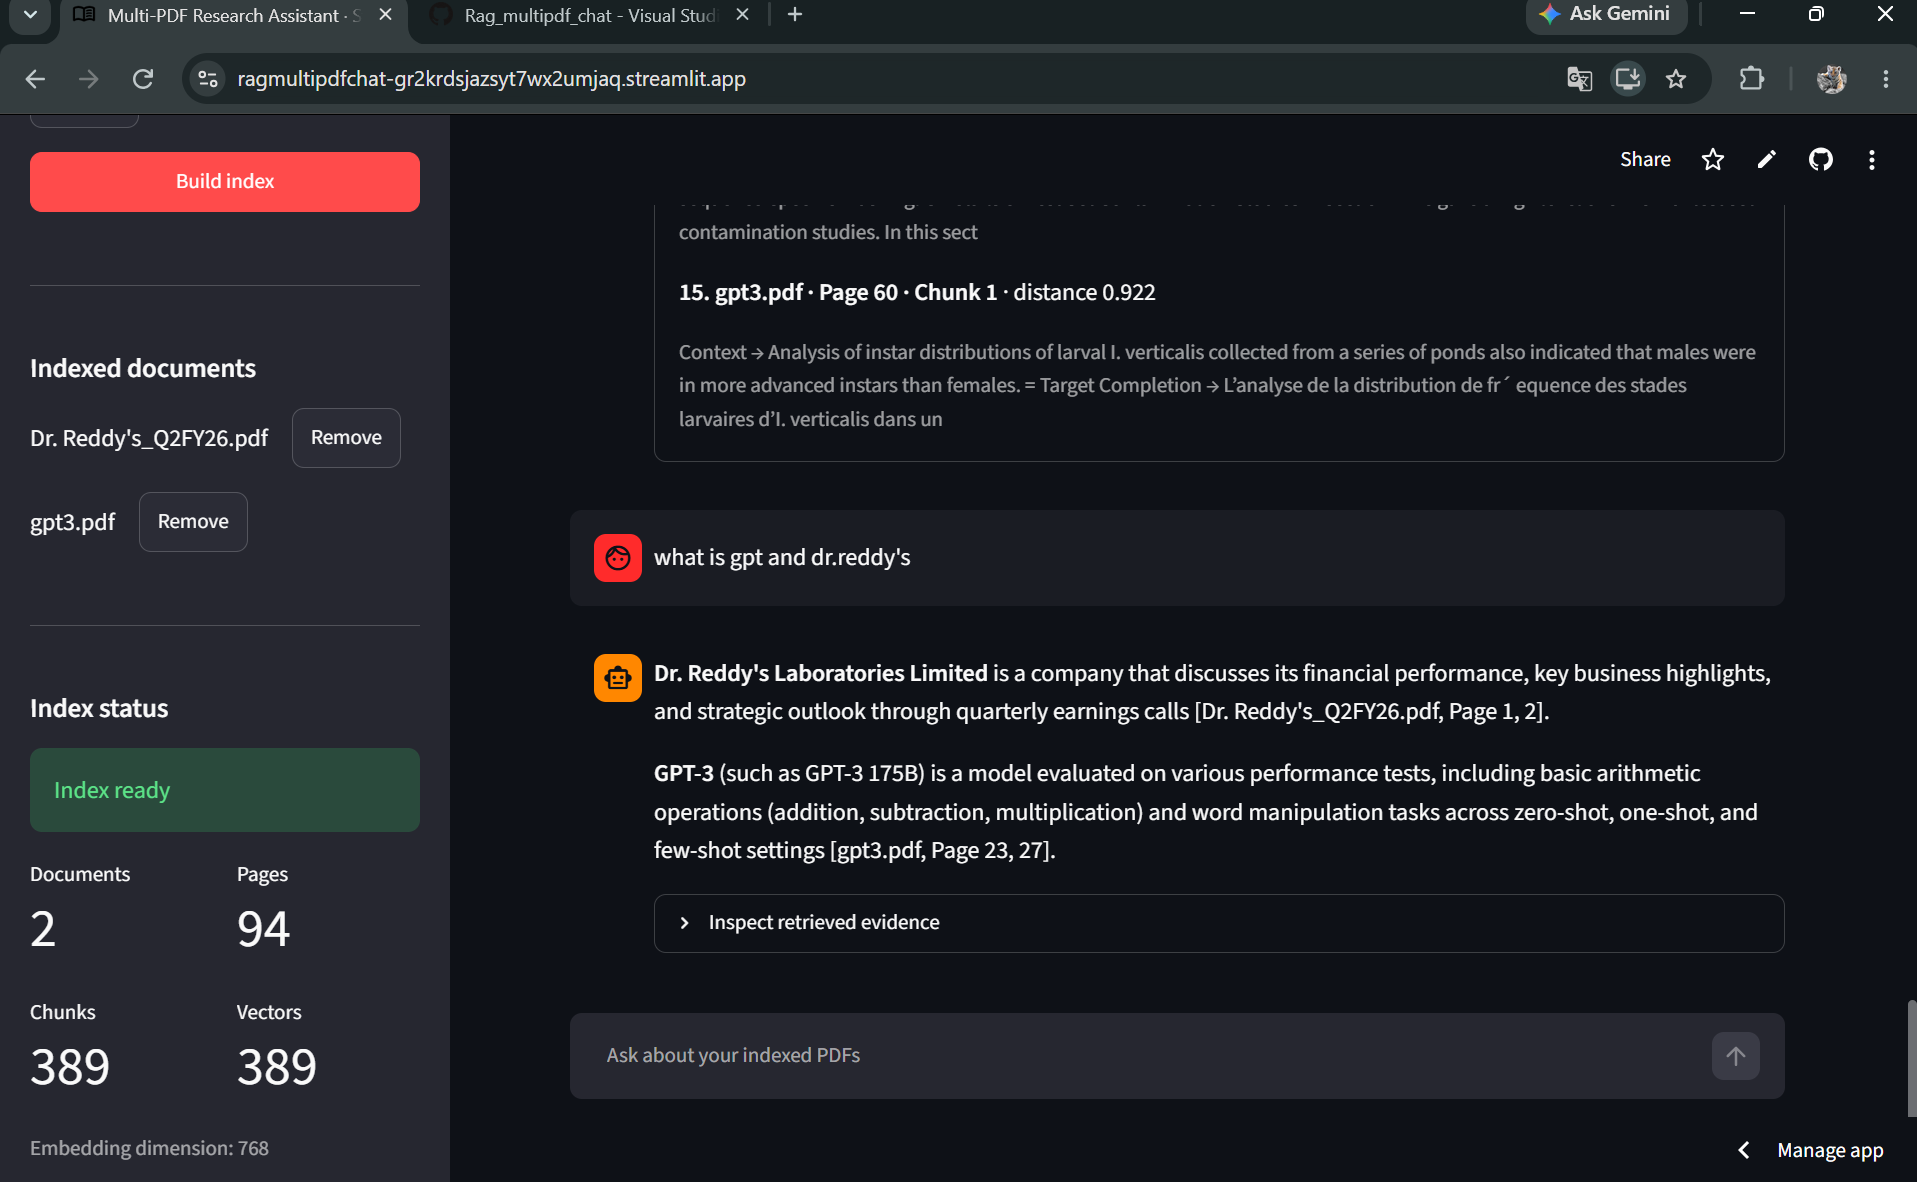
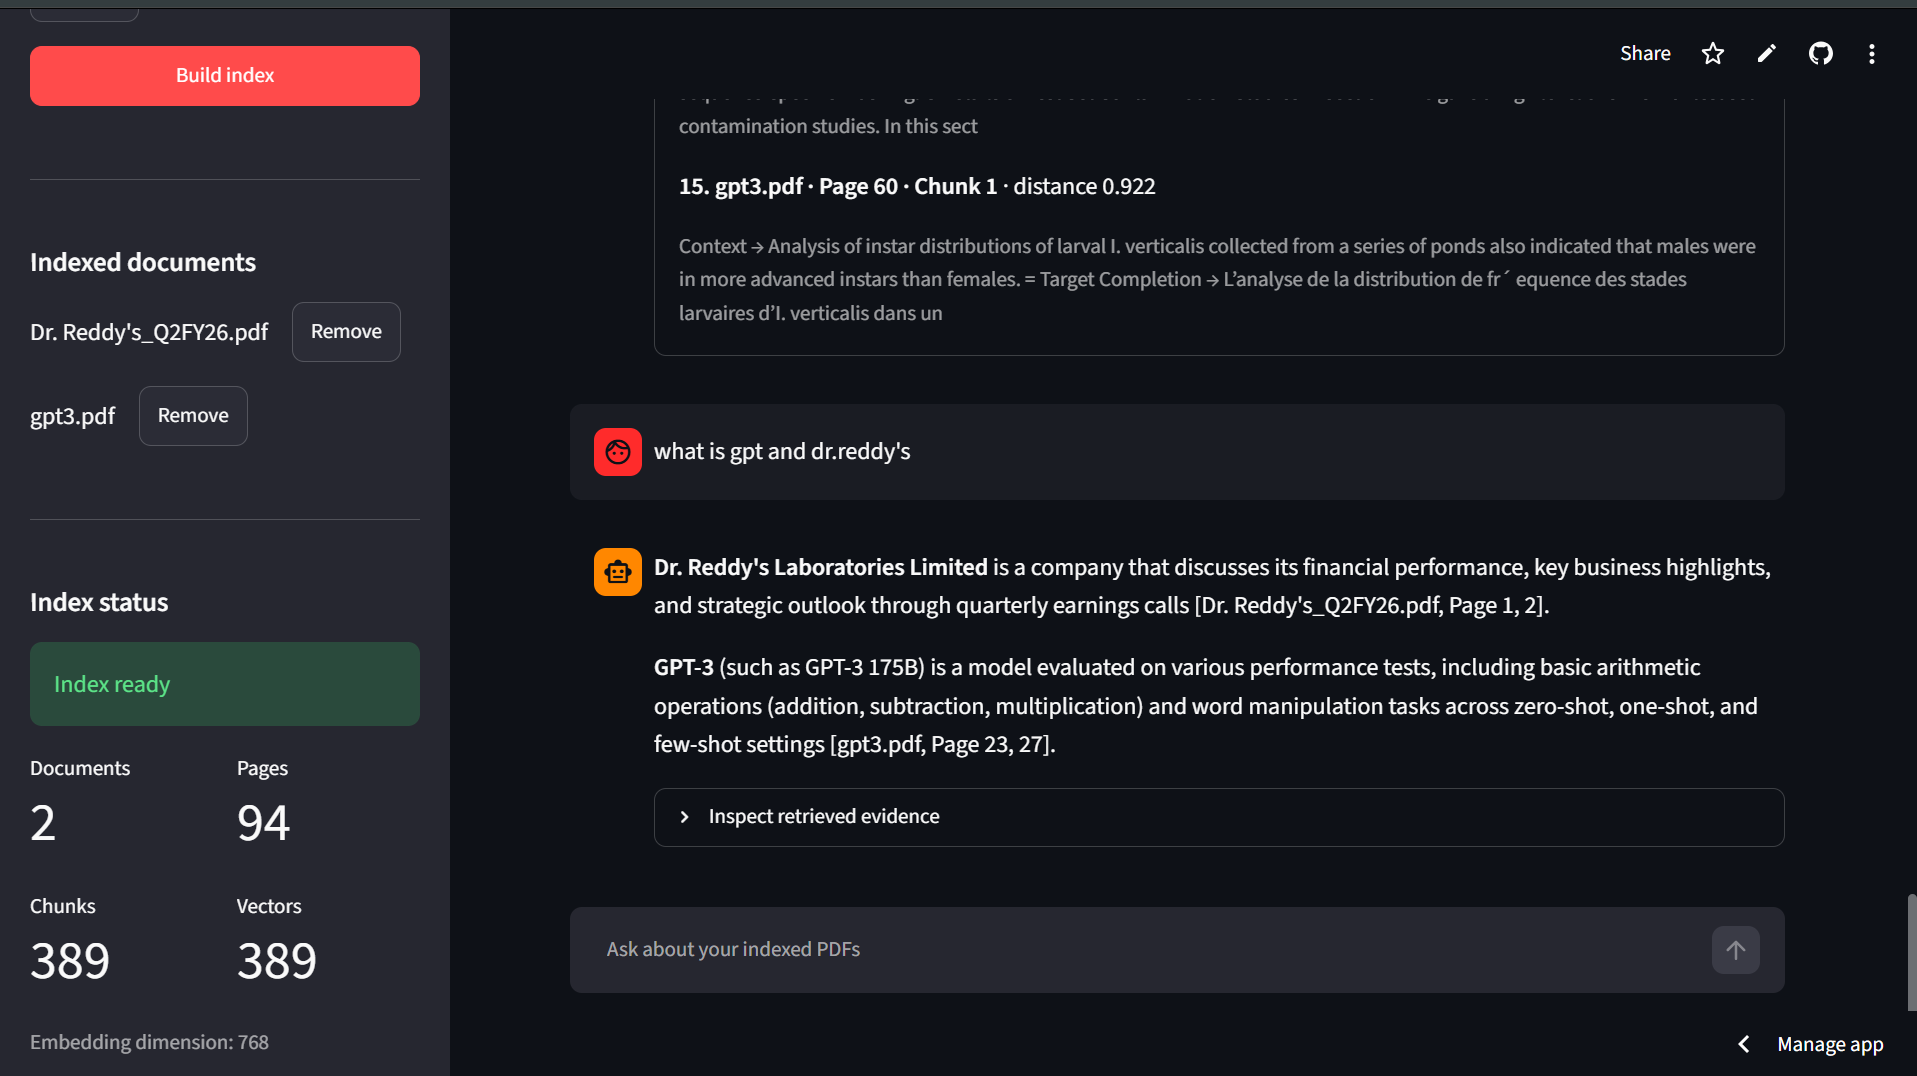
Add live demo and application preview

diff --git a/README.md b/README.md
@@ -8,7 +8,7 @@ A Streamlit retrieval-augmented generation (RAG) app for asking grounded questio
 
 ## Application Preview
 
-![Multi-PDF Research Assistant screenshot](assets/streamlit-demo.png)
+<img src="assets/streamlit-demo.png" alt="Multi-PDF Research Assistant" width="100%">
 
 ## Features
 
